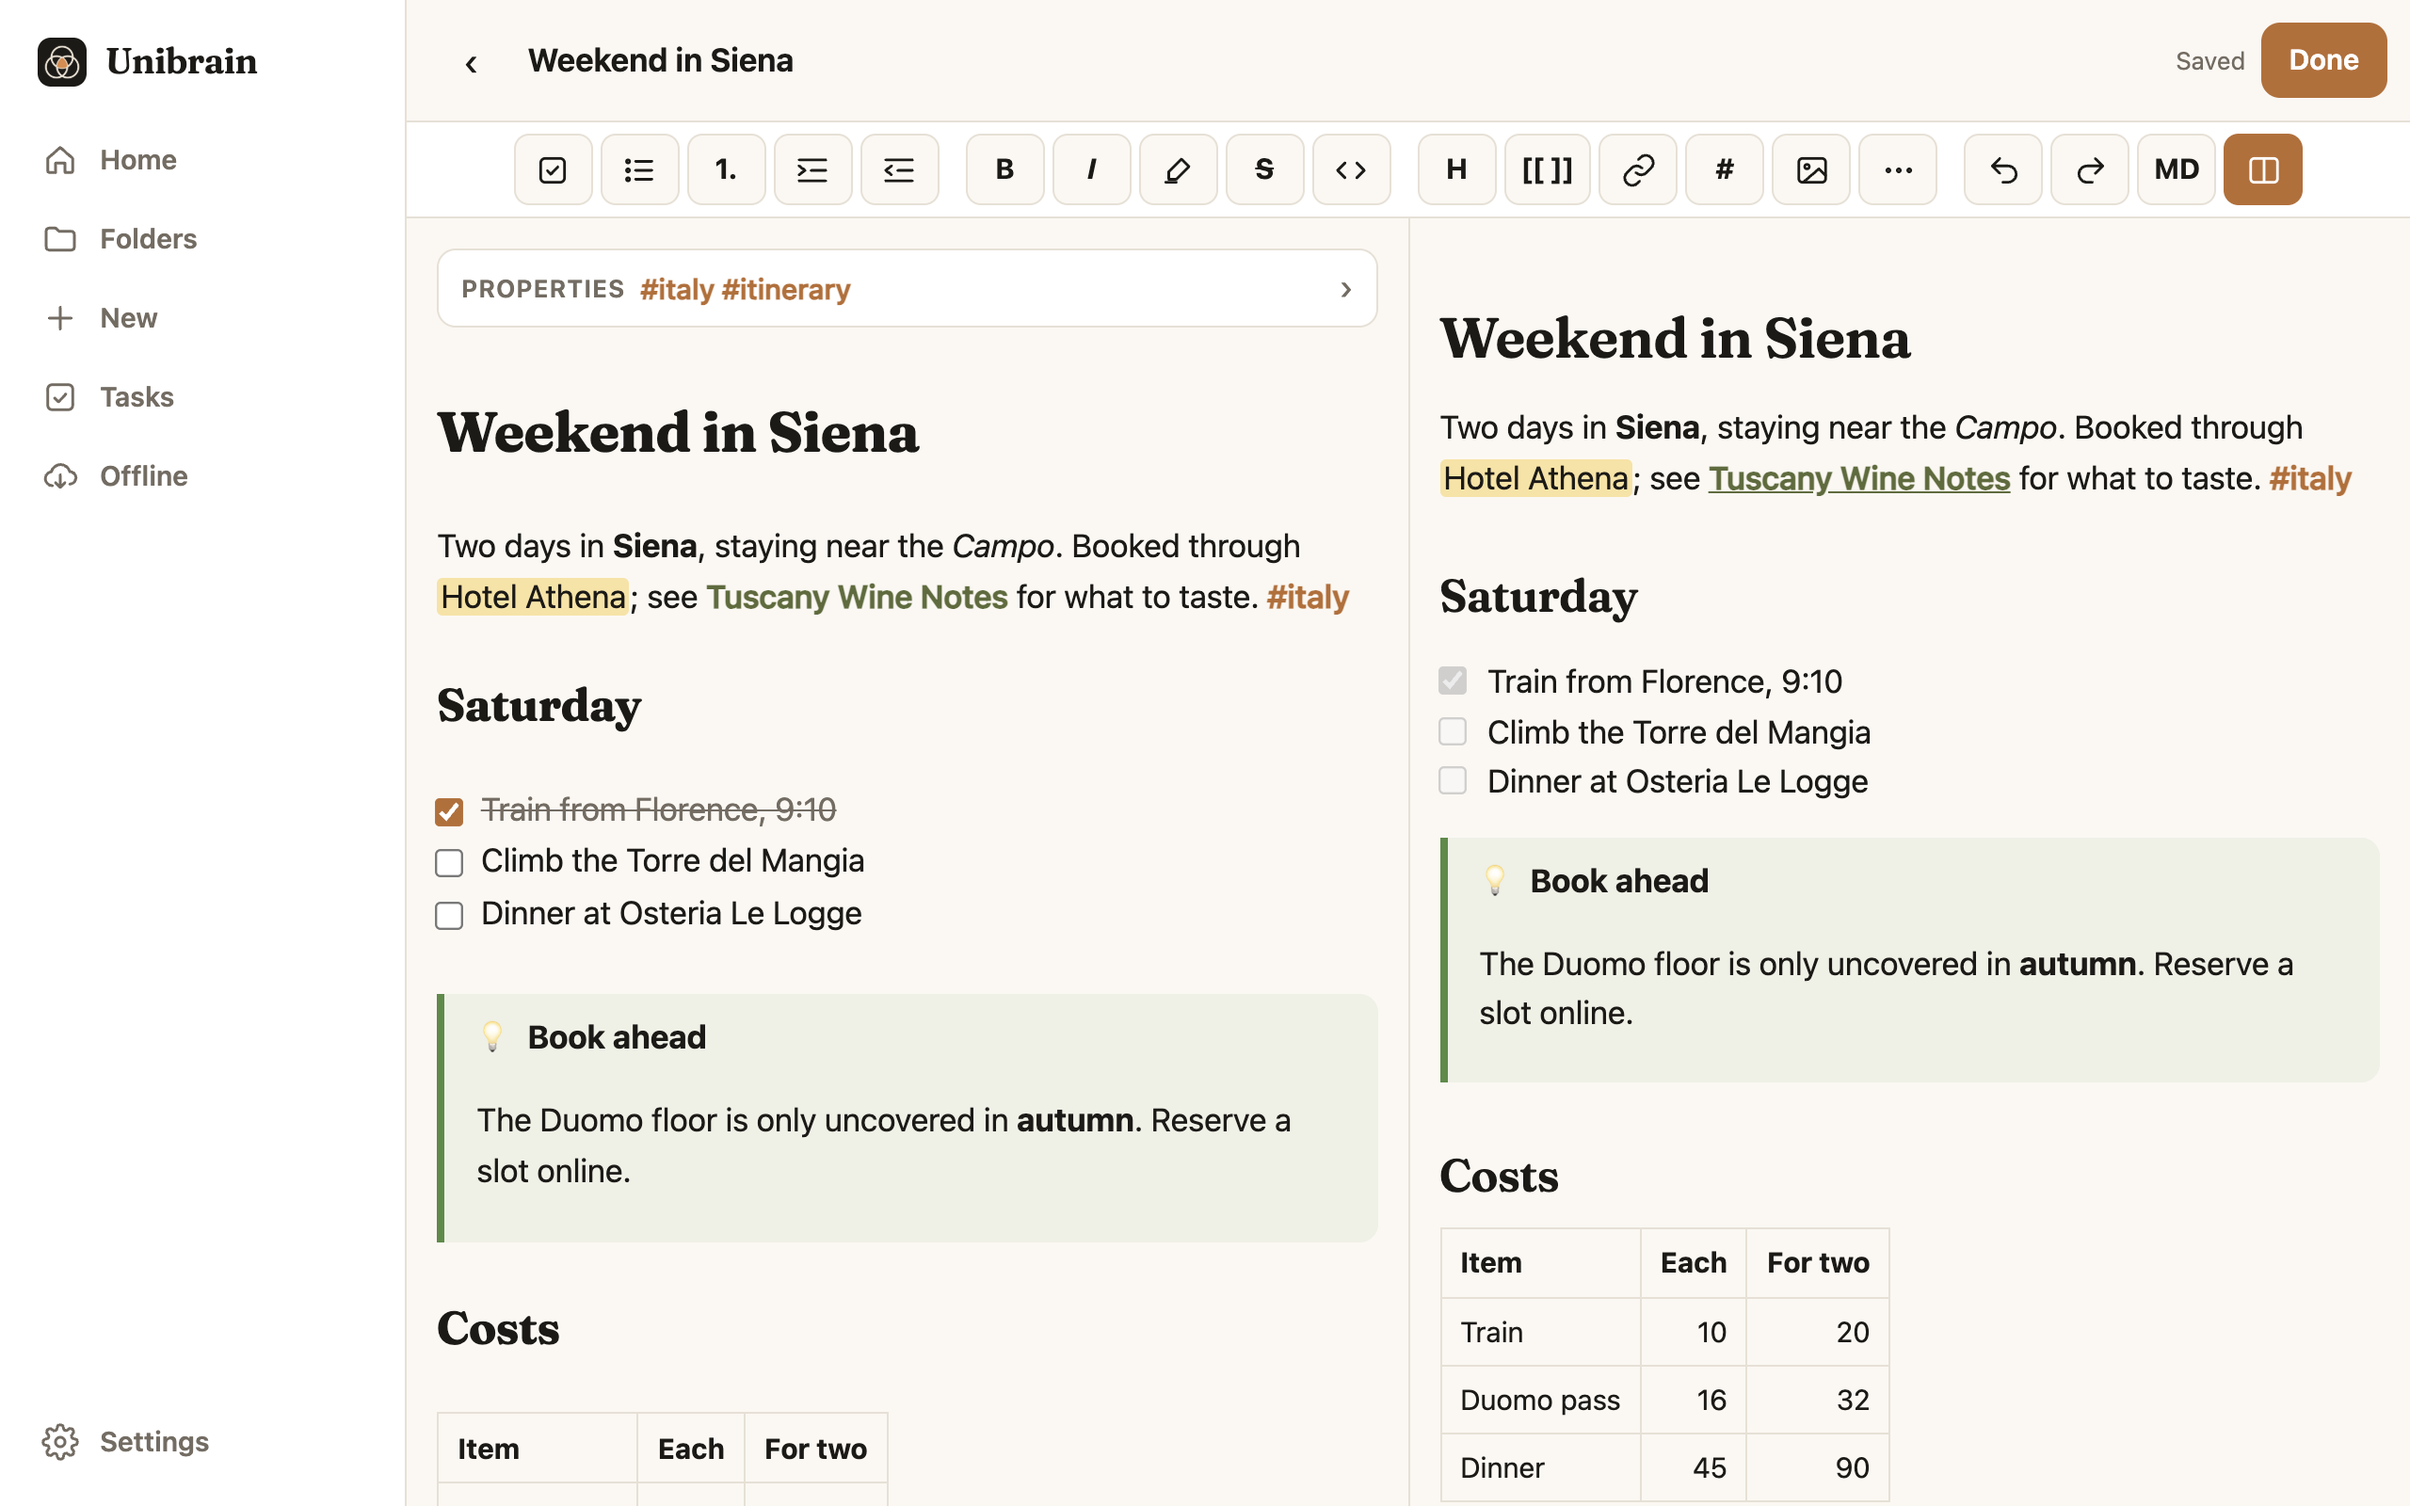
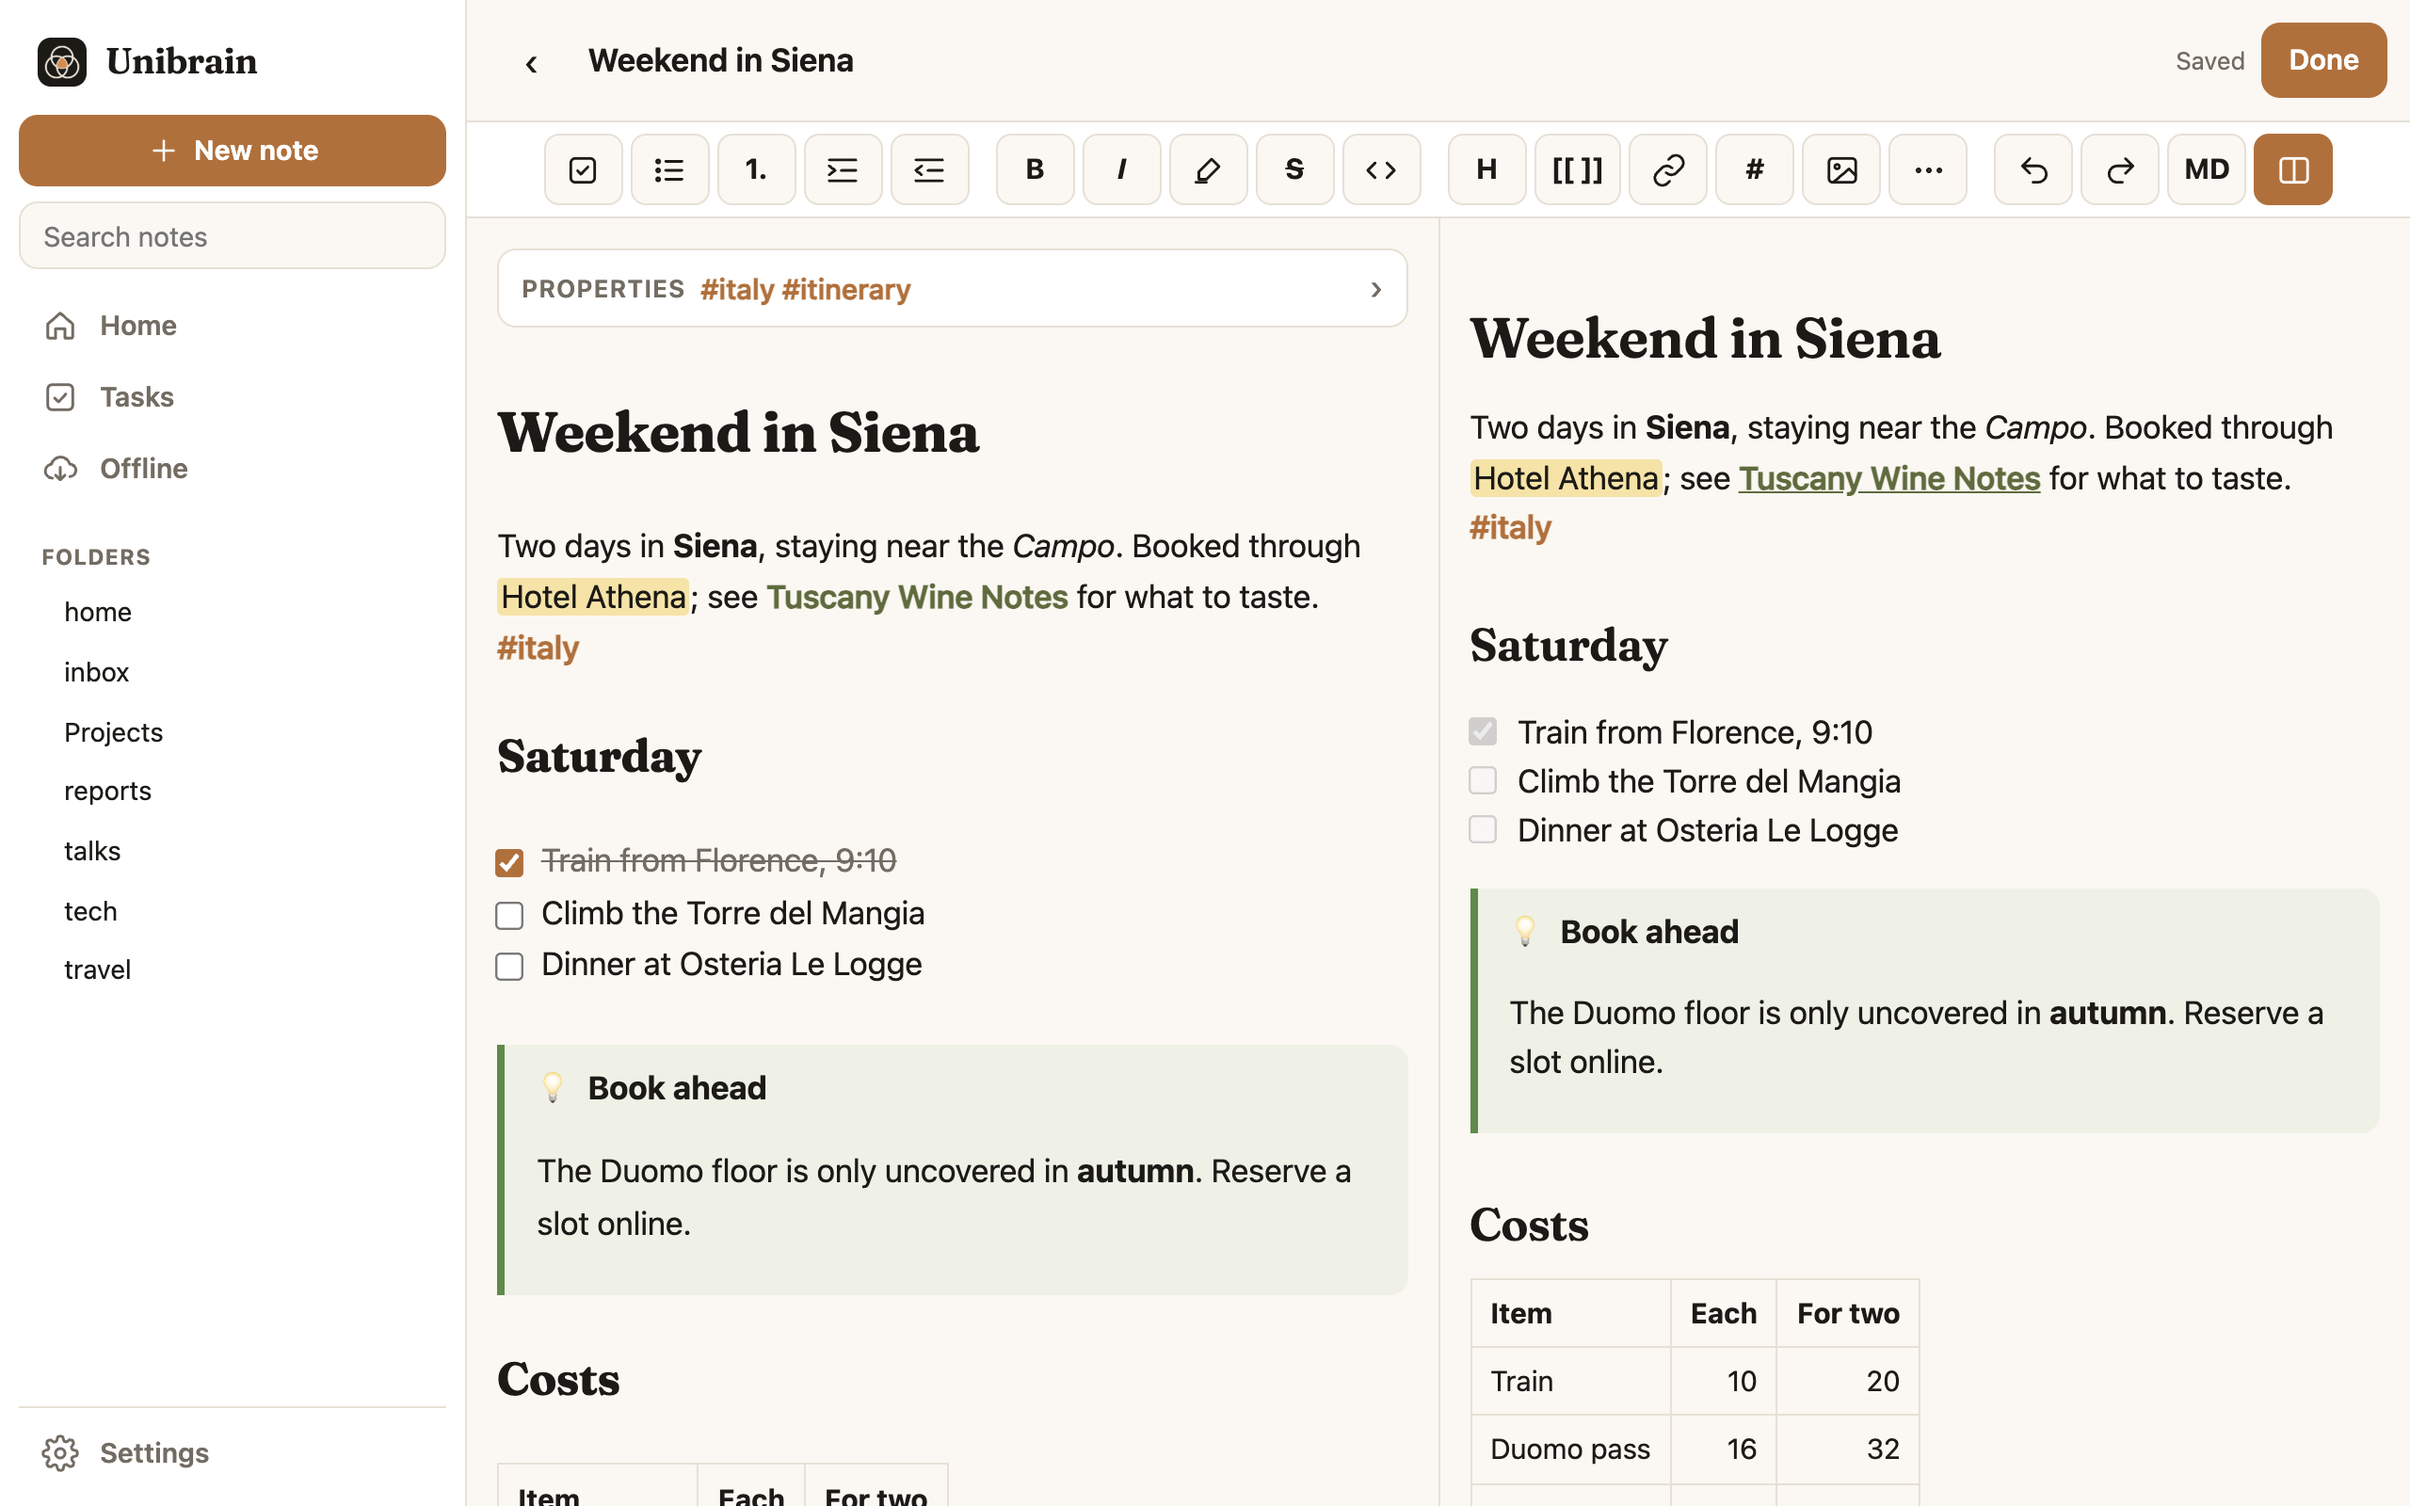
The web app on a computer: the sidebar's search, favorites and folders; Home's new column

diff --git a/docs/features/web-app.md b/docs/features/web-app.md
@@ -33,13 +33,16 @@ The web app is where you **read, review and write**: what your agents saved, and
 
 In a wide window (about 1000 pixels and up: a laptop, or a tablet on its side) the app rearranges itself:
 
-- **The tab bar becomes a sidebar** down the left, with Home, Folders, New, Tasks and Offline, plus Agents (if [mission control](mission-control.md) is on) and Settings.
+- **The tab bar becomes a sidebar** down the left. At the top: a **New note** button and a **search box** that works from any screen (results appear on Home; Esc clears it). Then Home, Tasks, Agents (if [mission control](mission-control.md) is on, with a count of what is waiting) and Offline, your **favorites**, and your **folders as a tree** you can open and close. Settings is at the bottom.
+- **Home shows what wants your attention.** Beside the recently changed notes: the agents' **Needs you** items, and tasks that are overdue or **due within a week**.
 - **Less repetition.** Home, Folders, Tasks and Settings show a plain heading instead of a bar with a back arrow, and a note's title appears once.
 - **Lists keep a comfortable width**: folders become a grid of cards, and Home puts your favorites in a column beside the recent notes.
 - **Pages are wider.** In a note, text keeps a comfortable line length while tables, code, diagrams and pictures use the full width, so wide tables stop scrolling sideways.
 - **Long notes get an outline.** From about 1200 pixels wide, a note's headings are listed beside it; click one to jump there, and the one you are reading is marked.
 - **A note's actions move into its bar**: Ask, Share, Organize and History sit at the top right, beside the star and the pencil.
 - **The editor can show a preview beside the text**: see [Writing](editor.md#on-a-computer).
+
+![Home in a wide window: the sidebar with search, favorites and folders; recent notes; what needs you and what is due](../assets/images/shot-desktop-home.png){ .shot-wide }
 
 ![A note in a wide window: the sidebar on the left, the note beside it](../assets/images/shot-desktop.png){ .shot-wide }
 
